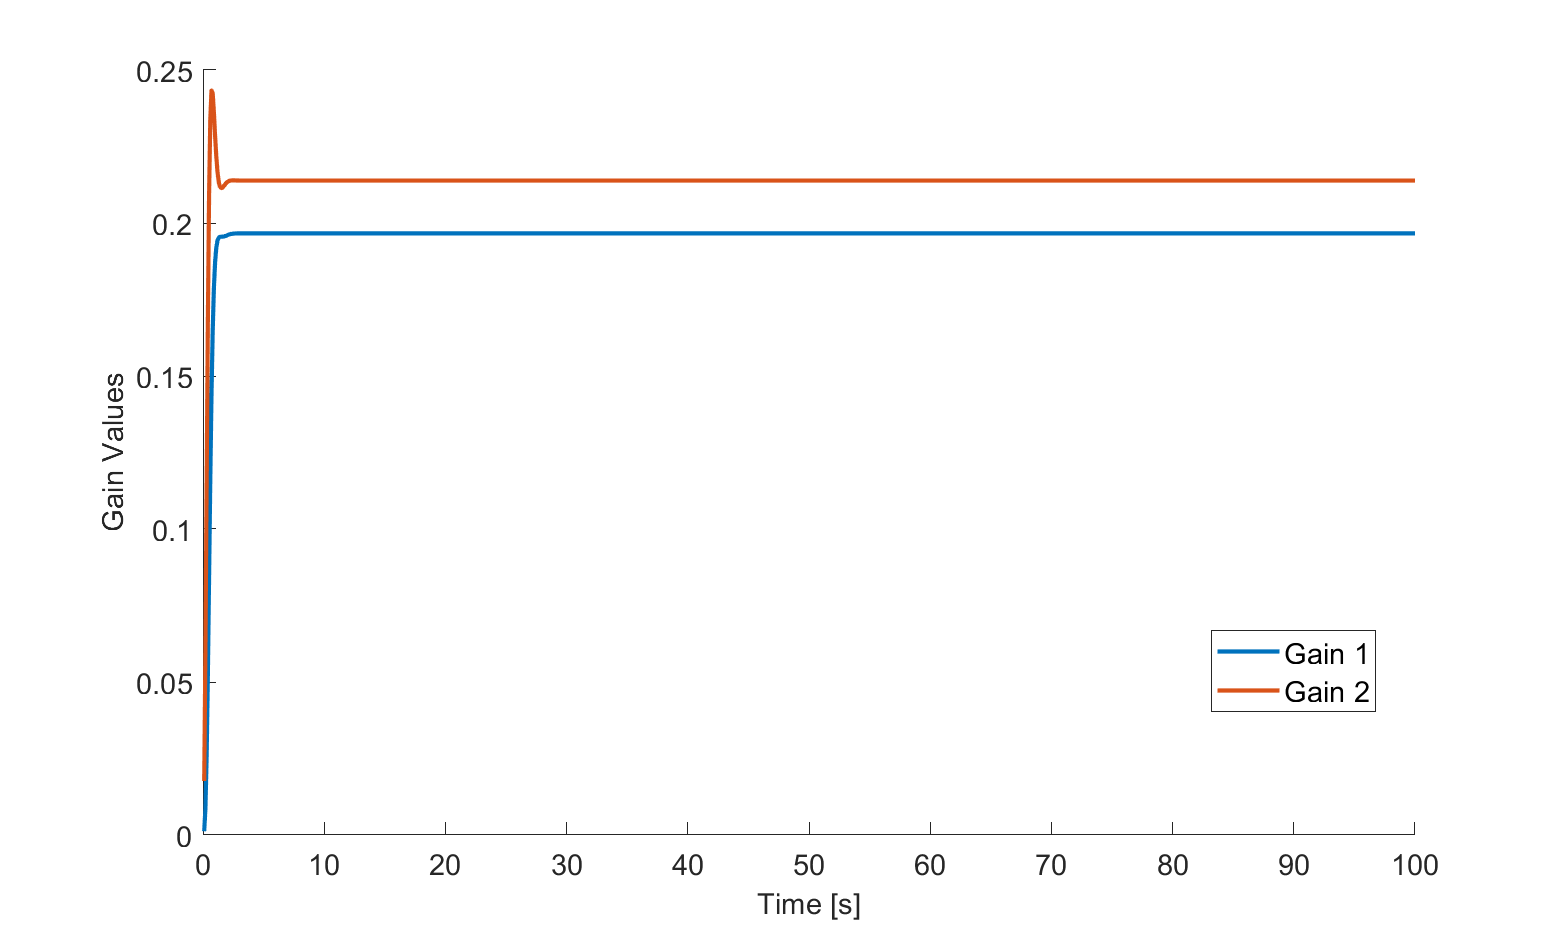
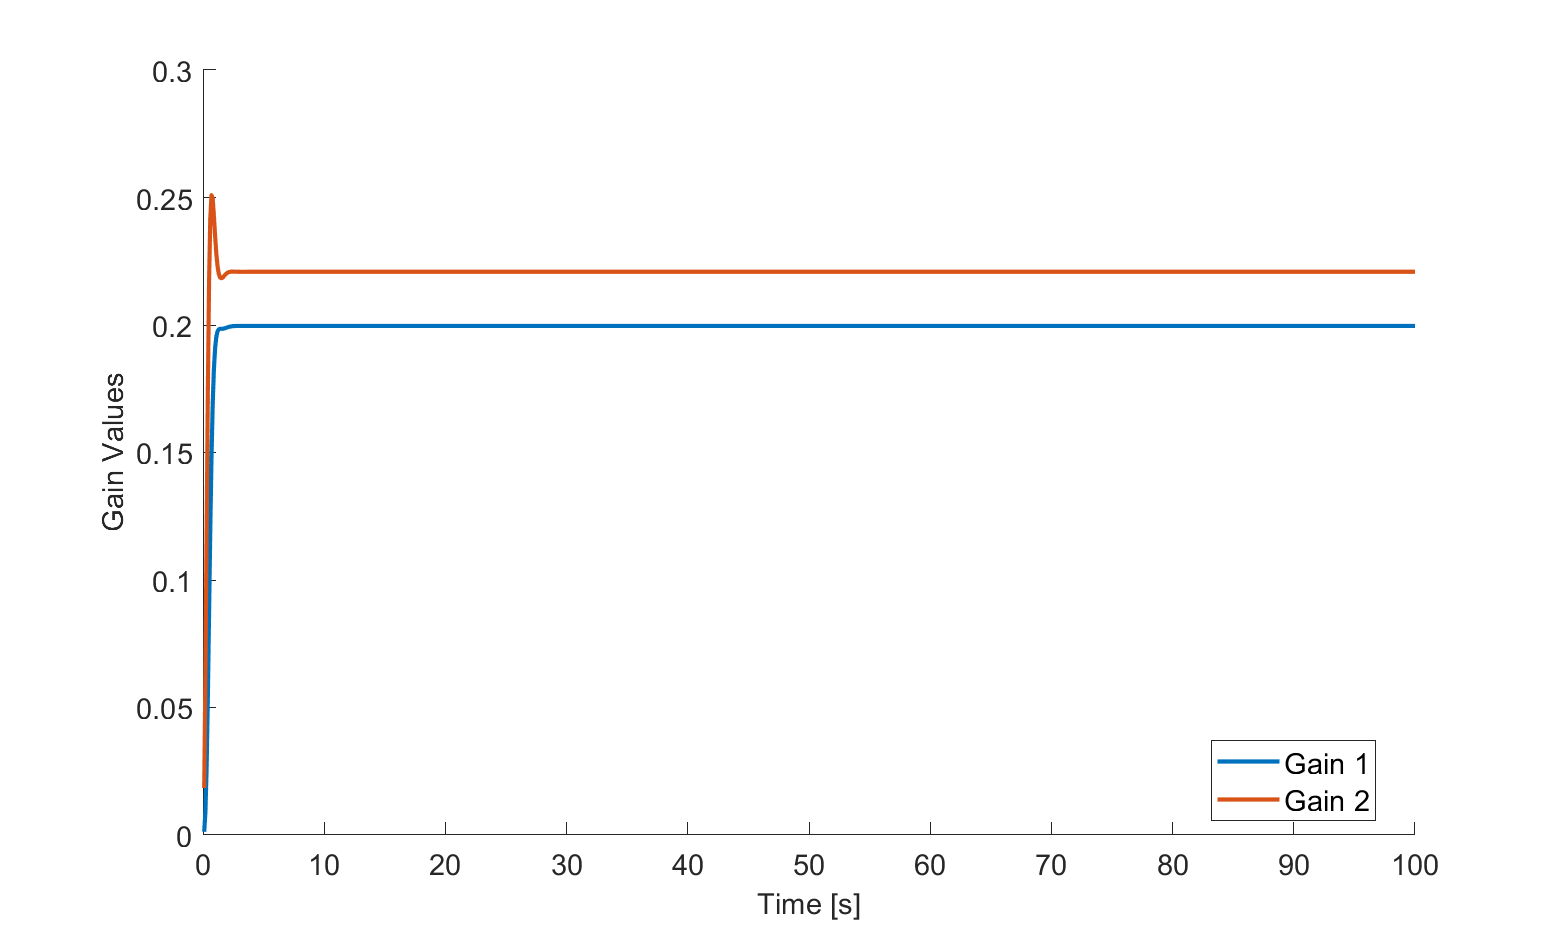
Completed Question 2

diff --git a/hw3.tex b/hw3.tex
@@ -212,14 +212,93 @@
     \begin{parts}
         \part{Run the Kalman filter estimator with $Q_d = 0$. What at happens when $t$ becomes greater than 100 seconds? Why? Calculate the steady state Kalman gain $L_{ss}$. Plot $L(k)$. This is known as the filter "going to sleep" (i.e. becomes a least squares estimator). }
 
+        \solution{%
+        After the time becomes greater 100 seconds, the filtered estimate of the position fails. This is because we are assuming no process noise during the simulation. Because of this, the Kalman Filter is expecting a static position and when the bias disappears, the filter is unable to keep up.
+
+        We can estimate the steady state Kalman gain, $L_ss$, by using the following equations from class.
+        \[P^{m}_{ss} = \left[\left(A_d P^{m}_{ss} A_d^T + Q_d\right)^{-1} + C R_d^{-1} C^T\right]^{-1} \]
+        \[L_{ss} = P^{m}_{ss}C^T R_d^{-1} \]
+        After evaluating these equations we get a steady-state Kalman gain of
+        \[L_{ss} = 0.0004995.\]
+        On the next page we can see figures \ref{fig:4} and \ref{fig:5} show the filter 'going to sleep' and the resulting estimate of position.
+
+        \begin{figure}[!h]
+            \centering
+            \includegraphics[width=0.75\linewidth]{Q2_simulation.png}
+            \caption{Kalman Filter 'going to sleep' after the bias is removed from the measured data.}
+            \label{fig:4}
+        \end{figure}
+
+        \begin{figure}[!h]
+            \centering
+            \includegraphics[width=0.75\linewidth]{Q2_gains.png}
+            \caption{Kalman gain as time increases}
+            \label{fig:5}
+        \end{figure}
+
+        \clearpage
+        }
         \part{To offset this problem we will "tune" $Q_d$ to track the bias. What is the effect of changing $Q_d$ on the ability to track the step change in the bias? Try values of $Q_d$ from $0.0001$ to $0.01$ and plot $L(k)$ as well as the estimate of the bias $(\hat{x})$. What is the trade-off?}
+
+        \solution{%
+            For this problem, I simulated the filter over 4 values of $Q$  -- $0.0001$, $0.001$, $0.01$, $0.1$. As the value of $Q$ increased, the filter was able to adapt to the change of the measured position more quickly, as seen in Figure \ref{fig:6}.
+
+            \begin{figure}[!h]
+                \centering
+                \includegraphics[width=\linewidth]{Q2b_simulation.png}
+                \caption{Filtered position estimate for various values of process noise, $Q$.}
+                \label{fig:6}
+            \end{figure}
+            However, also as the value of $Q$ increased, we see an increase in our steady state covariance value (Table \ref{tbl:1}).
+
+            \begin{table}[!h]
+                \centering
+                \caption{Steady-state covariance value for each value of $Q$.}
+                \label{tbl:1}
+                \begin{tabular}{|c|cccc|}
+                    \hline
+                    $Q$      & 0.0001 & 0.001  & 0.01   & 0.1    \\
+                    \hline
+                    $P_{ss}$ & 0.0032 & 0.0100 & 0.0311 & 0.0951 \\
+                    \hline
+                \end{tabular}
+            \end{table}
+
+            Figure \ref{fig:7} shows the Kalman gain values for each iteration of $Q$.
+
+            \begin{figure}[!h]
+                \centering
+                \includegraphics[width=\linewidth]{Q2b_gains.png}
+                \caption{Kalman gain for each value of $Q$.}
+                \label{fig:7}
+            \end{figure}
+        }
+        \clearpage
 
         \part{Now filter the measurement using the first-order low-pass filter
             \[H(z)=  \frac{\sqrt{Q_d}}{z - \left(1 - \sqrt{Q_d}\right)} \]
             Use the command:
             \[yf = filter(numd,dend,y,y0)\]}
 
+        \solution{%
+
+            The following plot was produced with a $Q$ value of $0.1$.
+
+            \begin{figure}[!h]
+                \centering
+                \includegraphics[width=\linewidth]{Q2c_simulation.png}
+                \caption{Comparison of measurements to the Kalman Filter and MATLAB command $>>filter$.}
+                \label{fig:8}
+            \end{figure}
+        }
+        \clearpage
         \part{How does this compare to the Kalman filter solution? Why are these two filters the same for this problem.}
+
+        \solution{%
+            Upon looking at the plot, one can see that the Kalman Filter and $>>filter$ command produce almost identical results. Looking at the documentation for $>>filter$, it seems to use a moving average formula for 1-dimensional data. However, after further analyzing our 1-dimensional Kalman Filter, we seem to be doing the same thing - we formulate some current estimate of the state, compare it with our last estimate of the state, and then correct the current estimate based on our comparison.
+        }
+
+        \clearpage
     \end{parts}
     \clearpage
     \question{Design a “Navigation” type Kalman filter to estimate the states [East, North Radar\_Bias, Psi, Gyro\_Bias]. (Note: this is a non-linear problem that requires an Extended Kalman Filter (EKF) to do correctly.)

diff --git a/Q2.m b/Q2.m
@@ -1,4 +1,4 @@
-%% Formatting 
+%% Formatting
 clc
 clear
 close all
@@ -8,7 +8,147 @@ format shortg
 % Reading data, defining constants, initializing filter
 data = importdata("data\hw3_2.txt");
 
+plotFontSize = 14;
+
 time = data(:,1);
 dt = diff(time);
-Y = data(:,2);
+Y_data = data(:,2);
 
+A_c = 0;
+Q = 0;
+B = 0;
+C = 1;
+trick = expm([-A_c (B*Q*B');zeros(1) A_c']*dt(1));
+A_d = trick(2,2);
+Q_d = A_d*trick(1,2);
+R_d = 1;
+
+% Pre-allocating for speed
+L_k = zeros(1,length(time));
+X_hat = zeros(1,length(time));
+X = 0;
+P_plus = 1;
+% Beginning Kalman Filter Simulation
+for i = 1:length(time)
+    % Time Update
+    X = A_d*X;
+    P_minus = A_d*P_plus*A_d' + Q_d;
+
+    % Measurement Update
+    L_k(i) = P_minus*C'*(C*P_minus*C' + R_d)^-1;
+    P_plus  = (1 - L_k(i)*C)*P_minus;
+    X_hat(i) = X + L_k(i)*(Y_data(i) - C*X);
+
+
+    X = X_hat(i);
+end
+
+P_plus_ss = ((A_d*P_plus*A_d' + Q_d)^-1 + C*R_d^-1*C')^-1
+L_k_ss = P_plus_ss*C'*R_d^-1
+
+% Plotting Simulation
+simFig = figure('Position',[500 250 1000 600],'Name','Estimator vs Data simulation');
+hold on
+plot(time,Y_data,'LineWidth',2)
+plot(time,X_hat,'LineWidth',2)
+legend('Measurement','Filtered Position')
+ylabel('Meters [m]')
+xlabel('Time [s]')
+fontsize(simFig,plotFontSize,"points")
+saveas(simFig,'Q2_simulation.png')
+
+% Plotting Simulation
+KFFig = figure('Position',[500 250 1000 600],'Name','Estimator vs Data simulation');
+hold on
+plot(time,L_k,'LineWidth',2)
+ylabel('Gain Value')
+xlabel('Time [s]')
+fontsize(KFFig,plotFontSize,"points")
+saveas(KFFig,'Q2_gains.png')
+
+%% Question 2 Part B
+clc
+clear
+
+% Reading data, defining constants, initializing filter
+data = importdata("data\hw3_2.txt");
+
+plotFontSize = 14;
+
+time = data(:,1);
+dt = diff(time);
+Y_data = data(:,2);
+
+A_c = 0;
+Q = [0.0001 0.001 0.01 0.1];
+
+% Pre-allocating for speed
+L_k = zeros(4,length(time));
+X_hat = zeros(4,length(time));
+
+% Beginning Kalman Filter Simulation
+for j = 1:length(Q)
+    X = 0;
+    P_plus = 1;
+    B = 1;
+    C = 1;
+    trick = expm([-A_c (B*Q(j)*B');zeros(1) A_c']*dt(1));
+    A_d = trick(2,2);
+    Q_d = A_d*trick(1,2);
+    R_d = 1;
+
+
+    for i = 1:length(time)
+        % Time Update
+        X = A_d*X;
+        P_minus = A_d*P_plus*A_d' + Q_d;
+
+        % Measurement Update
+        L_k(j,i) = P_minus*C'*(C*P_minus*C' + R_d)^-1;
+        P_plus  = (1 - L_k(j,i)*C)*P_minus;
+        X_hat(j,i) = X + L_k(j,i)*(Y_data(i) - C*X);
+
+
+        X = X_hat(j,i);
+    end
+    P_plus_ss(j) = ((A_d*P_plus*A_d' + Q_d)^-1 + C*R_d^-1*C')^-1;
+    L_k_ss(j) = P_plus_ss(j)*C'*R_d^-1;
+end
+
+
+% Plotting Simulation
+simBFig = figure('Position',[500 250 1000 600],'Name','Estimator vs Data simulation');
+hold on
+plot(time,Y_data,'LineWidth',2)
+plot(time,X_hat,'LineWidth',2)
+legend('Measurement','Q = 0.0001','Q = 0.001','Q = 0.01','Q = 0.1','Location','best')
+ylabel('Meters [m]')
+xlabel('Time [s]')
+fontsize(simBFig,plotFontSize,"points")
+saveas(simBFig,'Q2b_simulation.png')
+
+% Plotting Simulation
+KFBFig = figure('Position',[500 250 1000 600],'Name','Estimator vs Data simulation');
+hold on
+plot(time,L_k,'LineWidth',2)
+ylabel('Gain Value')
+xlabel('Time [s]')
+legend('Q = 0.0001','Q = 0.001','Q = 0.01','Q = 0.1','Location','best')
+fontsize(KFBFig,plotFontSize,"points")
+saveas(KFBFig,'Q2b_gains.png')
+
+%% Problem 2 Part C
+
+yf = filter(sqrt(Q_d),[1 -(1-sqrt(Q_d))],Y_data,Y_data(1));
+
+% Plotting Simulation
+simCFig = figure('Position',[500 250 1000 600],'Name','Estimator vs Data simulation');
+hold on
+plot(time,Y_data,'LineWidth',2)
+plot(time,X_hat(4,:),'LineWidth',2)
+plot(time,yf,'LineWidth',1,'LineStyle','--')
+legend('Measurement','Kalman Filter Position','>>filter position','Location','best')
+ylabel('Meters [m]')
+xlabel('Time [s]')
+fontsize(simCFig,plotFontSize,"points")
+saveas(simCFig,'Q2c_simulation.png')
